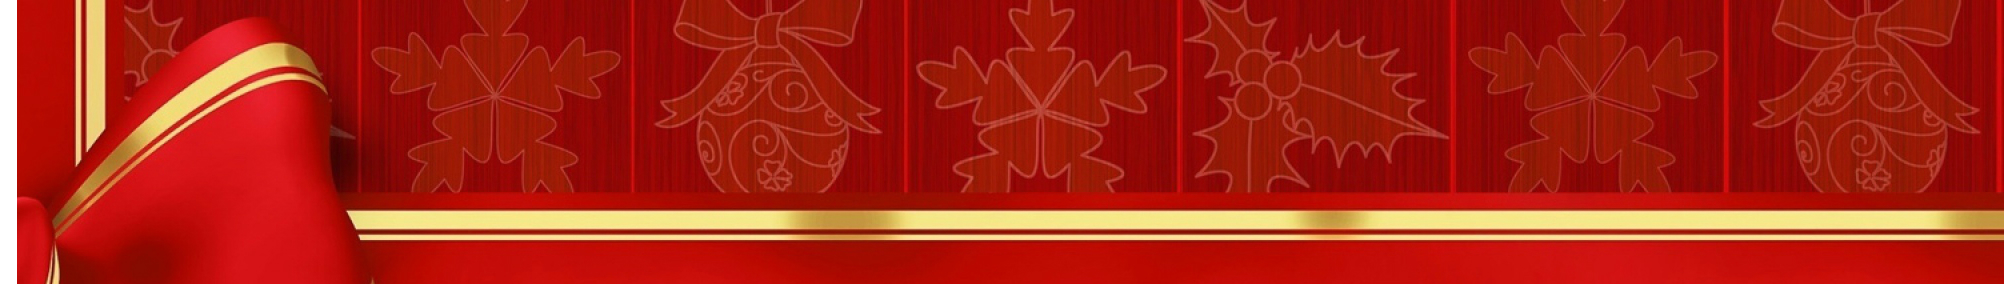
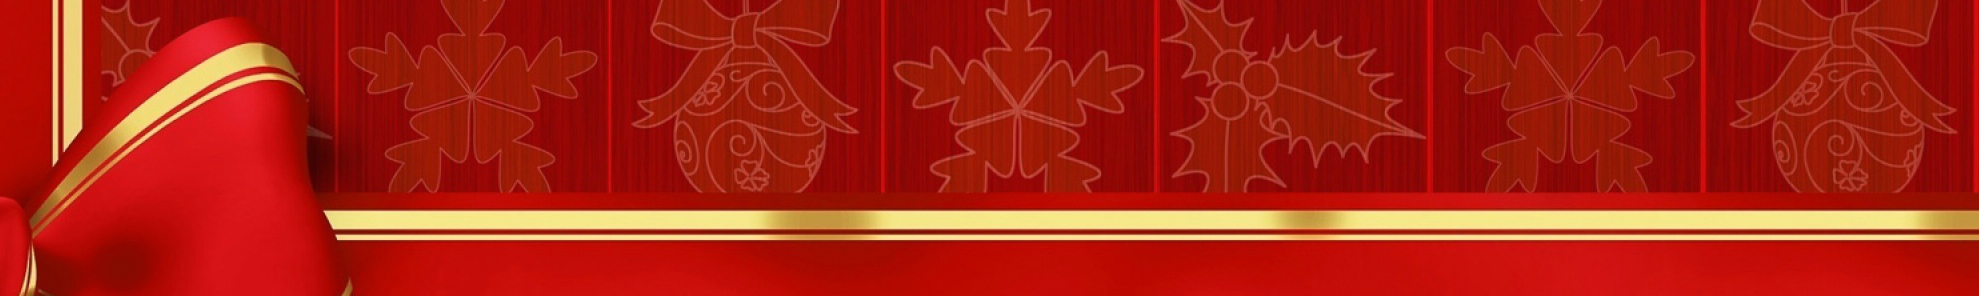
images stitched together

diff --git a/static/css/styles.css b/static/css/styles.css
@@ -1,4 +1,31 @@
-#background-gift {
-  width: 100vw;
-  height: 100vh;
+#top-left {
+  position: absolute;
+  left: 0;
+  top: 0;
+  width: 22.6953125vw;
+  height: 20.4166666vh;
+}
+
+#top-right {
+  position: absolute;
+  left: 22.6753125vw;
+  top: 0;
+  width: 77.3046875vw;
+  height: 20.4166666vh;
+}
+
+#bottom-left {
+  position: absolute;
+  left: 0;
+  top: 20.4166666vh;
+  width: 22.6953125vw;
+  height: 79.5833333vh;
+}
+
+#bottom-right {
+  position: absolute;
+  left: 22.6753125vw;
+  top: 20.4166666vh;
+  width: 77.3046875vw;
+  height: 79.5833333vh;
 }

diff --git a/index.js b/index.js
@@ -16,7 +16,7 @@ const html = `
       <img src="static/top-left.jpg" id="top-left" />
       <img src="static/top-right.jpg" id="top-right" />
       <img src="static/bottom-left.jpg" id="bottom-left" />
-      <img src="static/bottom-right.jpg" id="top-left" />
+      <img src="static/bottom-right.jpg" id="bottom-right" />
     </body>
   </html>`
 
